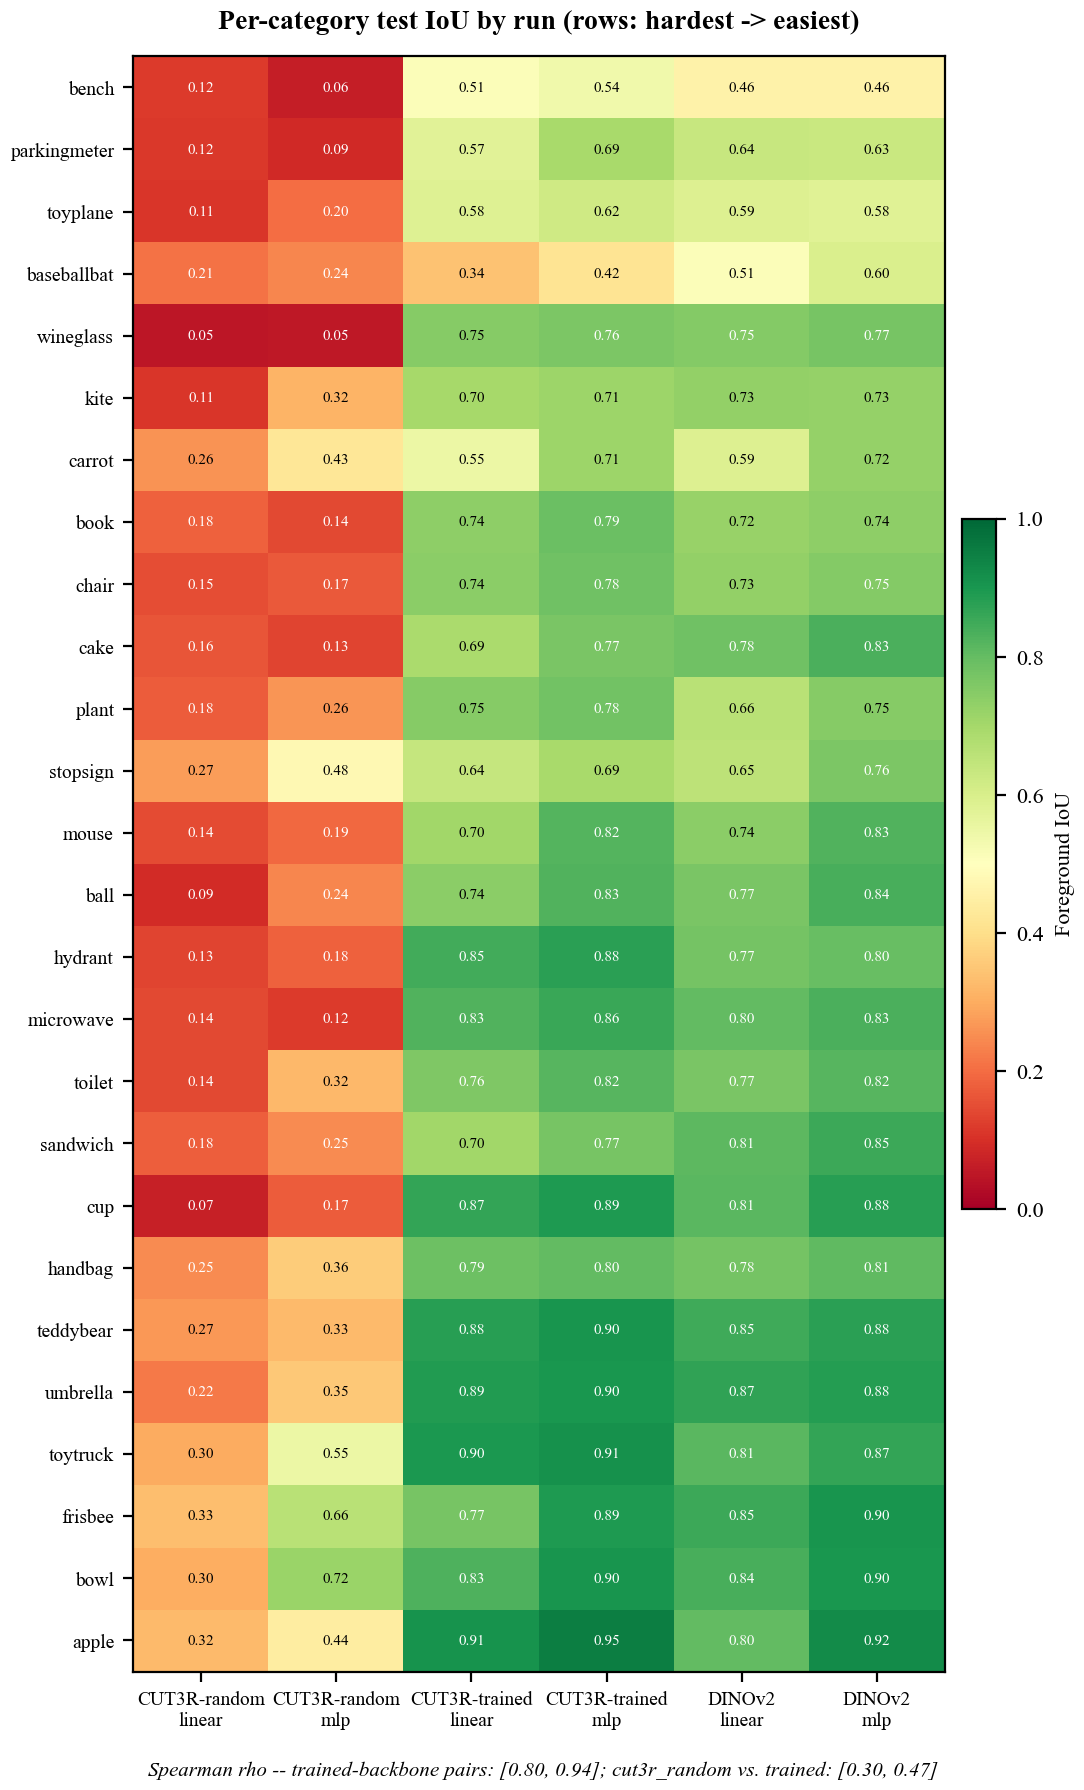
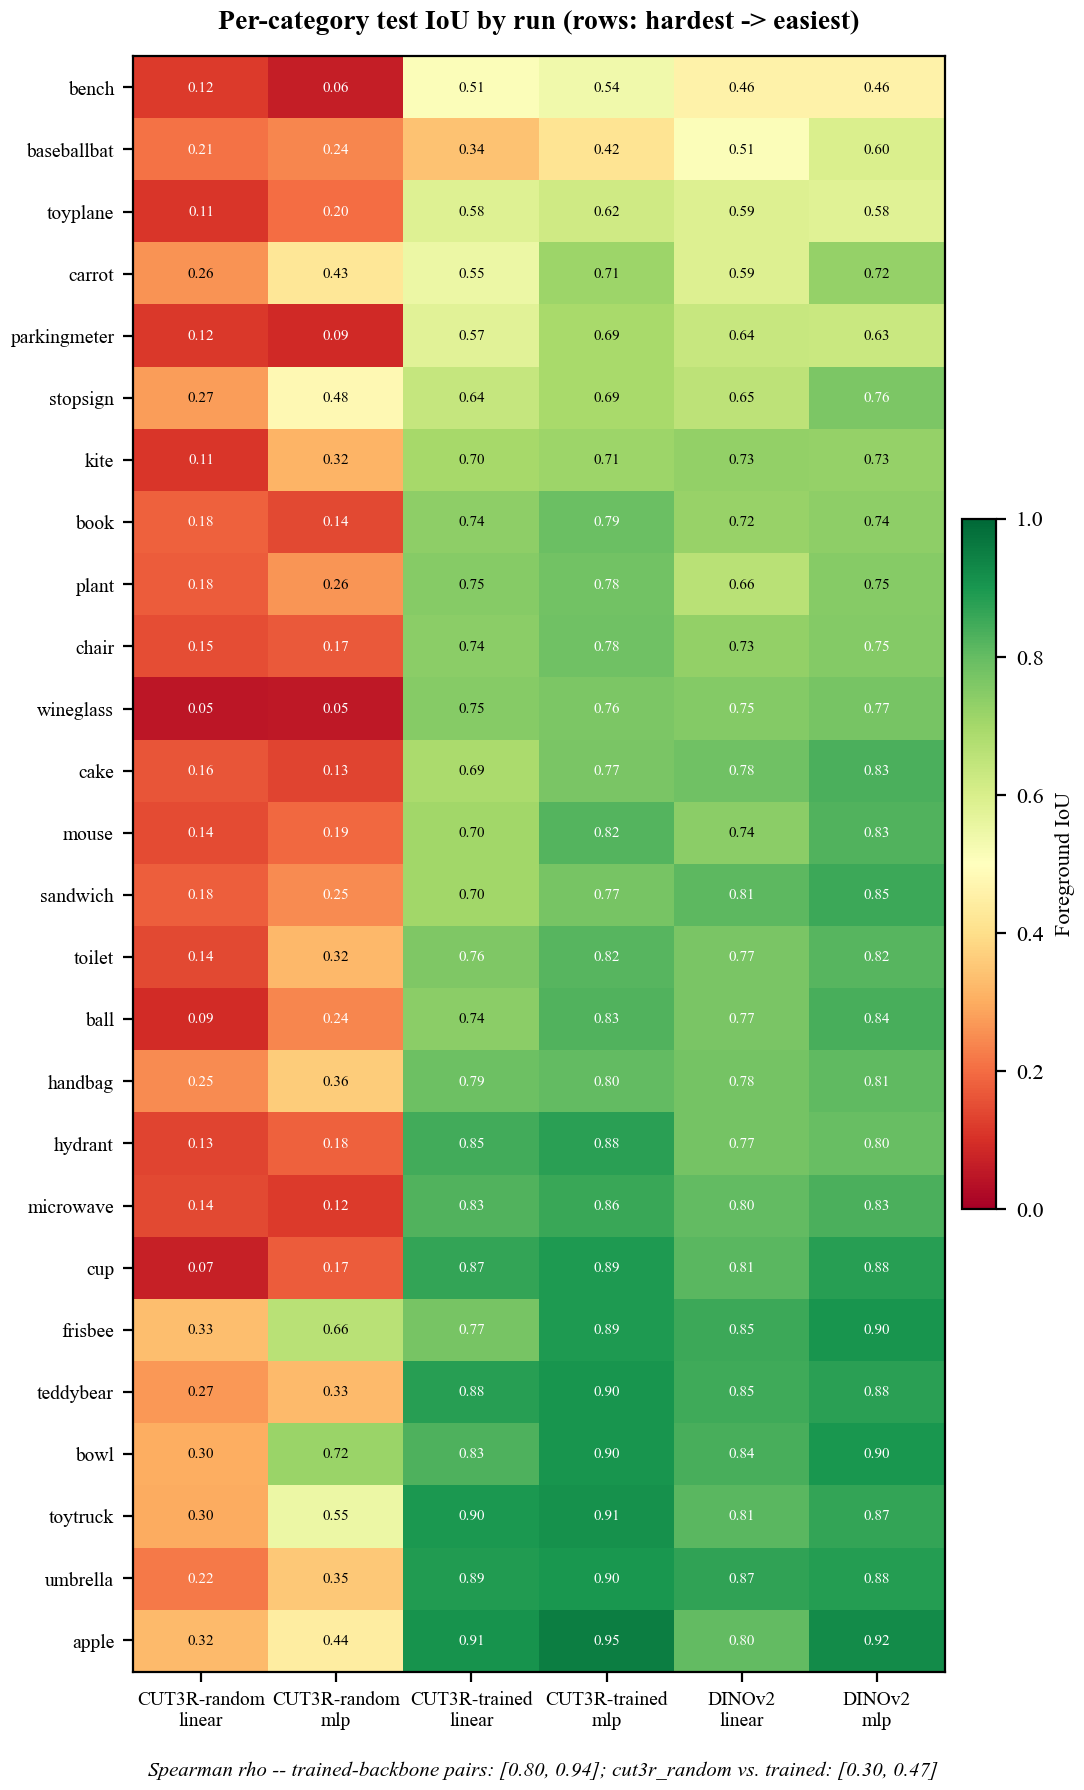
Segmentation: rank the category-difficulty heatmap by trained backbones only
Mean rank across all 6 runs let cut3r_random's weakly-correlated ranking
(finding 5: 0.30-0.47 vs. 0.80-0.94 among trained runs) drag categories away
from where they actually sit for the trained backbones, which is what this
figure is meant to show. Sorting rows by mean rank over the four trained-
backbone runs only fixes that; cut3r_random still renders in its own column
for comparison.

diff --git a/src/segmentation/analysis/build_category_difficulty_heatmap.py b/src/segmentation/analysis/build_category_difficulty_heatmap.py
@@ -73,9 +73,14 @@ def main() -> None:
     categories = sorted(set.intersection(*(set(d.keys()) for d in per_category.values())))
     matrix = np.array([[per_category[key][c] for key in run_keys] for c in categories])  # [n_cat, n_run]
 
-    # Sort rows by mean rank across runs (hardest = lowest IoU rank = top of plot).
+    # Sort rows by mean rank across the trained-backbone runs only (hardest = lowest
+    # IoU rank = top of plot). cut3r_random is excluded from the sort -- it's shown
+    # for comparison, but including it would let its (weakly correlated) ranking
+    # drag categories' positions away from where they actually sit for the trained
+    # backbones, which is what this figure is meant to illustrate.
+    trained_col_idx = [i for i, (b, _) in enumerate(run_keys) if b != "cut3r_random"]
     ranks_per_run = np.apply_along_axis(lambda col: col.argsort().argsort(), 0, matrix)
-    mean_rank = ranks_per_run.mean(axis=1)
+    mean_rank = ranks_per_run[:, trained_col_idx].mean(axis=1)
     order = np.argsort(mean_rank)  # ascending: lowest mean rank (hardest) first
     matrix_sorted = matrix[order]
     categories_sorted = [categories[i] for i in order]
